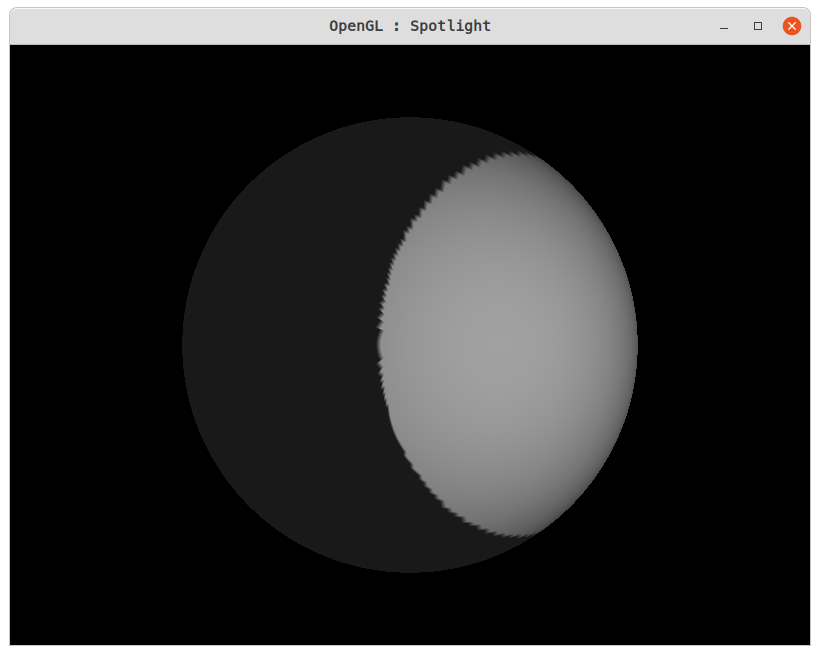
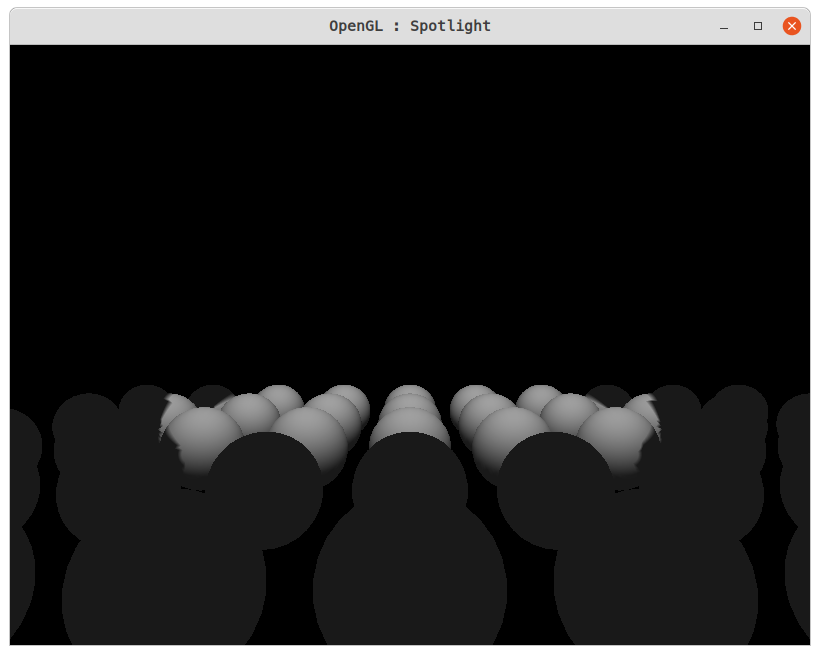
Spotlight Assignment

diff --git a/Linux/02-OpenGL/57-Spotlight/Spotlight.cpp b/Linux/02-OpenGL/57-Spotlight/Spotlight.cpp
@@ -33,8 +33,8 @@ GLfloat lightModelAmbient[] = {0.5f, 0.5f, 0.5f, 1.0f};
 GLfloat lightAmbient[]      = {0.0f, 0.0f, 0.0f, 1.0f};
 GLfloat lightDiffuse[]      = {1.0f, 1.0f, 1.0f, 1.0f};
 GLfloat lightSpecular[]     = {1.0f, 1.0f, 1.0f, 1.0f};
-GLfloat lightPosition[]     = {2.0f, 0.0f, 2.0f, 1.0f};
-GLfloat spotDirection[]     = {-0.2f, 0.0f, -1.0f};
+GLfloat lightPosition[]     = {0.0f, 10.0f, 0.0f, 1.0f};
+GLfloat spotDirection[]     = {0.0f, -1.0f, -0.8f};
 
 GLUquadric* quadric = NULL;
 
@@ -302,7 +302,7 @@ void Initialize(void)
     glLightfv(GL_LIGHT1, GL_POSITION, lightPosition);
     
     glLightf(GL_LIGHT1, GL_CONSTANT_ATTENUATION, 1.5f);
-    glLightf(GL_LIGHT1, GL_SPOT_CUTOFF, 10.0f);
+    glLightf(GL_LIGHT1, GL_SPOT_CUTOFF, 12.0f);
     glLightfv(GL_LIGHT1, GL_SPOT_DIRECTION, spotDirection);
     glLightf(GL_LIGHT1, GL_SPOT_EXPONENT, 2.0f);
     
@@ -333,10 +333,20 @@ void Render(void)
     glMatrixMode(GL_MODELVIEW);
     glLoadIdentity();
     
-    glTranslatef(0.0f,  0.0f, -5.0f);
-
-    quadric = gluNewQuadric();
-    gluSphere(quadric, 1.5f, 200, 200);
+    gluLookAt(0.0f, 0.0f, -8.0f,
+              0.0f, 0.0f, 0.0f, 
+              0.0f, 1.0f, 0.0f);
+    for(GLfloat i = -5.0f; i < 5.0f; i++)
+    {
+        for(GLfloat j = -5.0f; j < 5.0f; j += 2.0f)
+        {
+            glPushMatrix();
+                glTranslatef(i, -1.0f, j);
+                quadric = gluNewQuadric();
+                gluSphere(quadric, 0.4f, 30, 30);
+            glPopMatrix();
+        }
+    }
     
     glXSwapBuffers(gpDisplay, gWindow);
 }
